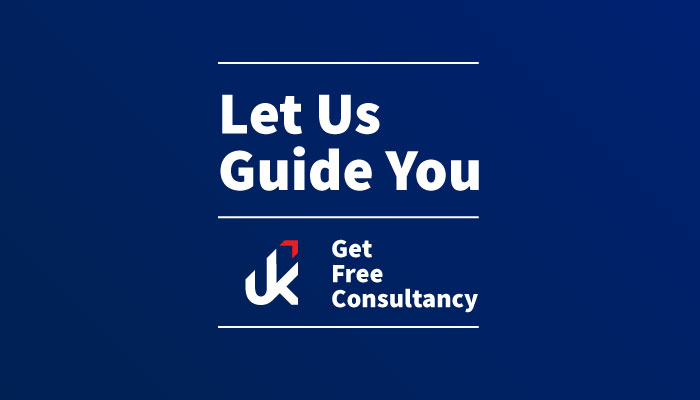
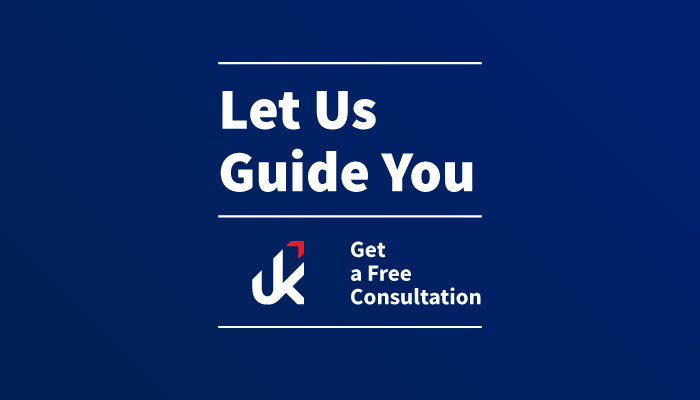
minor fixes

diff --git a/index.html b/index.html
@@ -119,10 +119,10 @@
                         <div id="sub-menu-drop" class="sub-menu-drop">
                             <hr>
                             <a href="undergraduate.html" onclick="menuControl()" class="sub-link"><i
-                                    class="fas fa-arrow-right"></i>&nbsp;&nbsp;Under&nbsp;Graduate&nbsp;Courses</a>
+                                    class="fas fa-arrow-right"></i>&nbsp;&nbsp;Undergraduate&nbsp;Courses</a>
                             <hr class="pc-only">
                             <a href="postgraduate.html" onclick="menuControl()" class="sub-link"><i
-                                    class="fas fa-arrow-right"></i>&nbsp;&nbsp;Post&nbsp;Graduate&nbsp;Courses</a>
+                                    class="fas fa-arrow-right"></i>&nbsp;&nbsp;Postgraduate&nbsp;Courses</a>
                             <hr>
                         </div>
                     </div>
@@ -191,11 +191,11 @@
         <div class="quick-menu content">
             <div class="quick-menu-group">
                 <a class="main" href="guide.html">
-                    <h2>Under<br>graduate<br>studies</h2>
+                    <h2>Undergraduate<br>studies</h2>
                     <h4>Read More&nbsp;<span><i class="fas fa-arrow-right"></i></span></h4>
                 </a>
                 <a class="main" href="guide.html">
-                    <h2>Post<br>graduate<br>studies</h2>
+                    <h2>Postgraduate<br>studies</h2>
                     <h4>Read More&nbsp;<span><i class="fas fa-arrow-right"></i></span></h4>
                 </a>
                 <a class="second" href="guide.html">
@@ -211,7 +211,7 @@
                     <h4>See the Guide&nbsp;<span><i class="fas fa-arrow-right"></i></span></h4>
                 </a>
                 <a class="second third" href="nursing.html">
-                    <h2>Job opportunities for Nurses</h2>
+                    <h2>Job opportunities for nurses</h2>
                     <h4>Know More&nbsp;<span><i class="fas fa-arrow-right"></i></span></h4>
                 </a>
             </div>
@@ -224,7 +224,7 @@
                 <h1>Let's<br>talk</h1>
                 <hr>
                 <div class="flex">
-                    <h3>Apply for<br>For free counsel</h3>
+                    <h3>Apply for<br>free consultation</h3>
                     <i class="fas fa-arrow-right"></i>
                 </div>
                 <hr>

diff --git a/about.html b/about.html
@@ -153,25 +153,19 @@
                 <h1 class="wow">WE HELP YOU<br>EXPLORE YOUR FUTURE </h1>
 
                 <p class="wow">
-                    EduKeen is a Sri Lankan and UK based Education Consultancy agency that will help and counsel you
-                    find the right university based on your individual requirement. We will guide you through every step
-                    of the way
+                    EduKeen is a Sri Lankan and UK based Education Consultancy agency that will help you and advise you to find the right university based on your individual requirement. We will guide you through every step of the way.
                 </p>
 
                 <h2 class="wow">We help students find Universities</h2>
 
                 <p class="wow">
-                    Based on students’ interest area of study we find you best universities to accomplish your goals. We
-                    offer courses ranging from undergraduate to postgraduate. Payments are directly paid to university
-                    giving you highest transparency without charging any fee for services. We can offer you attractive
-                    scholarships based on your achievements in studies.
+                    Based on students’ interest area of study we find you the best universities to accomplish your goals. We offer courses ranging from undergraduate to postgraduate. Payments are directly paid to university giving you highest transparency without charging any fee for services. We can offer you attractive scholarships based on your achievements in studies.
                 </p>
 
                 <h2 class="wow">We find accommodation and work for students</h2>
 
                 <p class="wow">
-                    Based on students university we can help you find accommodation close by, job opportunities, airport
-                    pick up and help you settle down to UK.
+                    Based on the students' university we can help you find accommodation close by, job opportunities, airport pick up and help you settle down in the UK.
                 </p>
             </div>
         </div>

diff --git a/guide.html b/guide.html
@@ -176,7 +176,7 @@
                 <div class="folding">
                     <div class="content-wrap">
                         <p>
-                            Are you looking to join an undergraduate program in one of the UK’s universities? We can
+                            Are you looking to join an postgraduate program in one of the UK’s universities? We can
                             offer you assistance to fulfill your career ambitions by helping and advising you on
                             selecting a suitable university that offers the program that you are looking to study.
                         </p>
@@ -218,10 +218,7 @@
                 <div class="folding">
                     <div class="content-wrap">
                         <p>
-                            Tuition fees approximately range between GBP 6,000 to GBP 12,000 per year depending on
-                            student’s academic profile, course length, and University ranking. We advise paying minimum
-                            CAS* deposit (payable directly to University) of 60% to 65% of the annual course fee.
-                            *CAS is the letter issued by University which is required to apply for a UK student visa.
+                            Tuition fees approximately range between GBP 6,000 to GBP 12,000 per year depending on student’s academic profile, course length, and University ranking. We advise on paying a minimum CAS* deposit (payable directly to University) of 60% to 65% of the annual course fee.<br>*CAS is the letter issued by the University which will be required to apply for a UK student visa.
                         </p>
                         <a class="action" href="form.html" onclick="menuControl()">Apply&nbsp;Now&nbsp;&nbsp;<i
                                 class="fas fa-arrow-right"></i></a>

diff --git a/nursing.html b/nursing.html
@@ -166,9 +166,7 @@
                 <h2 class="wow">Salary:</h2>
 
                 <ul class="wow">
-                    <li>Starting salary of £23,023 (5.2 Mn LKR p.a.)</li>
-                    <li>In 2 years - £24,214 (5.5 Mn LKR p.a.)</li>
-                    <li>In 3 years - £27,000 (6.2 Mn LKR p.a.)</li>
+                    <li>Starting from £18,000 per annum</li>
                 </ul>
 
                 <h2 class="wow">Benefits:</h2>

diff --git a/css/edukeen-style.css b/css/edukeen-style.css
@@ -681,7 +681,7 @@ i.fa-arrow-right {
 
 .quick-menu a.main h2 {
     color: white;
-    font-size: 25px;
+    font-size: 23px;
 }
 
 .quick-menu a h4 {
@@ -705,7 +705,7 @@ i.fa-arrow-right {
 
 .quick-menu a.second h2 {
     color: white;
-    font-size: 16px;
+    font-size: 15px;
 }
 
 .quick-menu-group>a.second.third {
